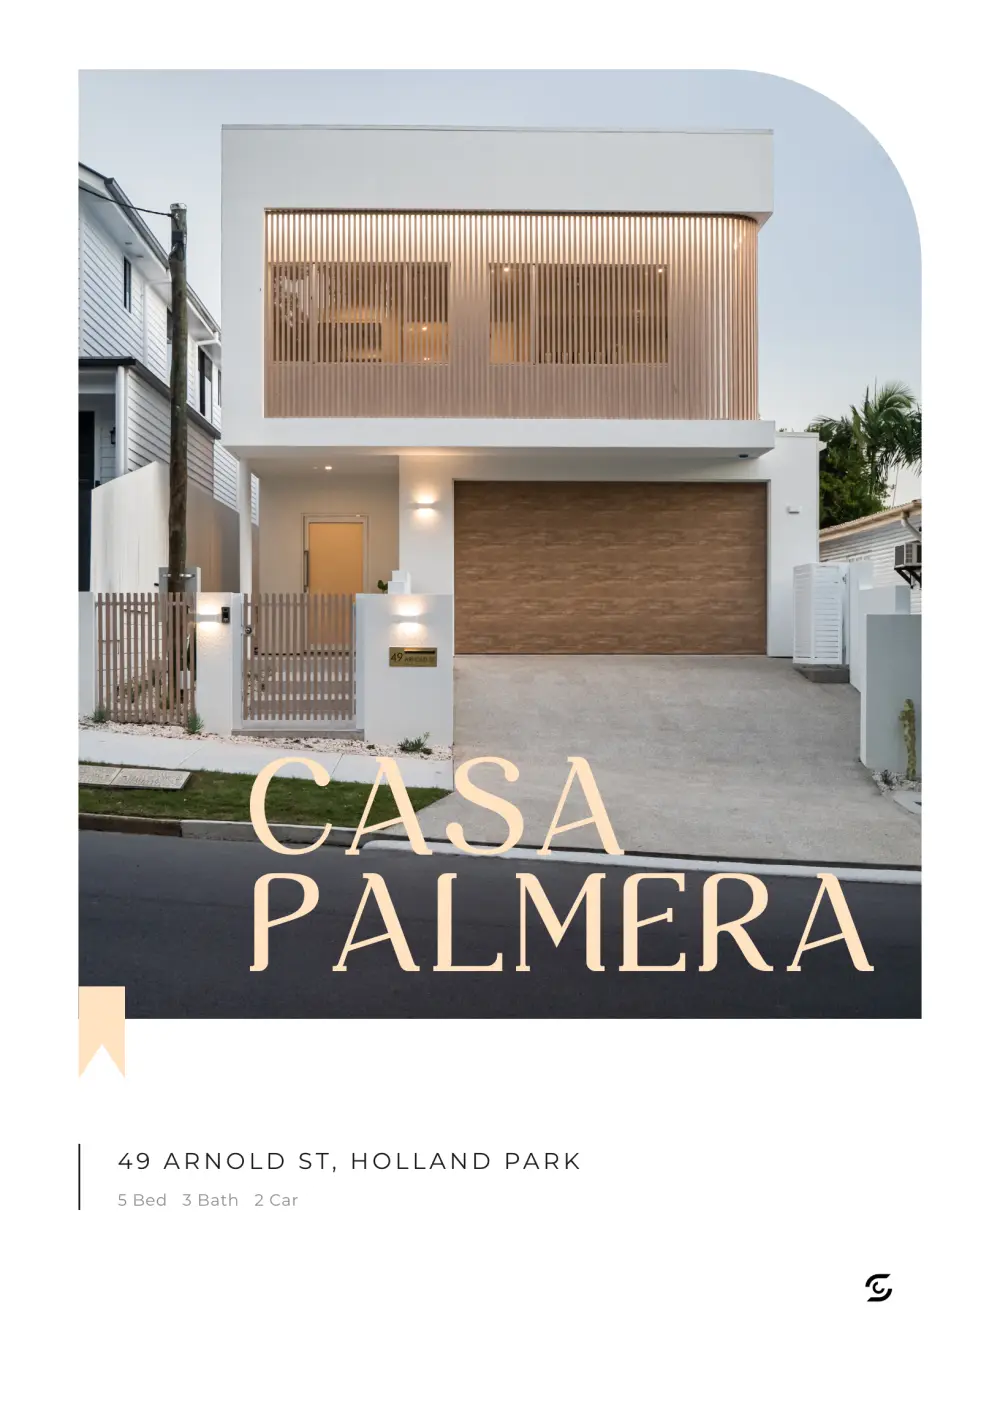
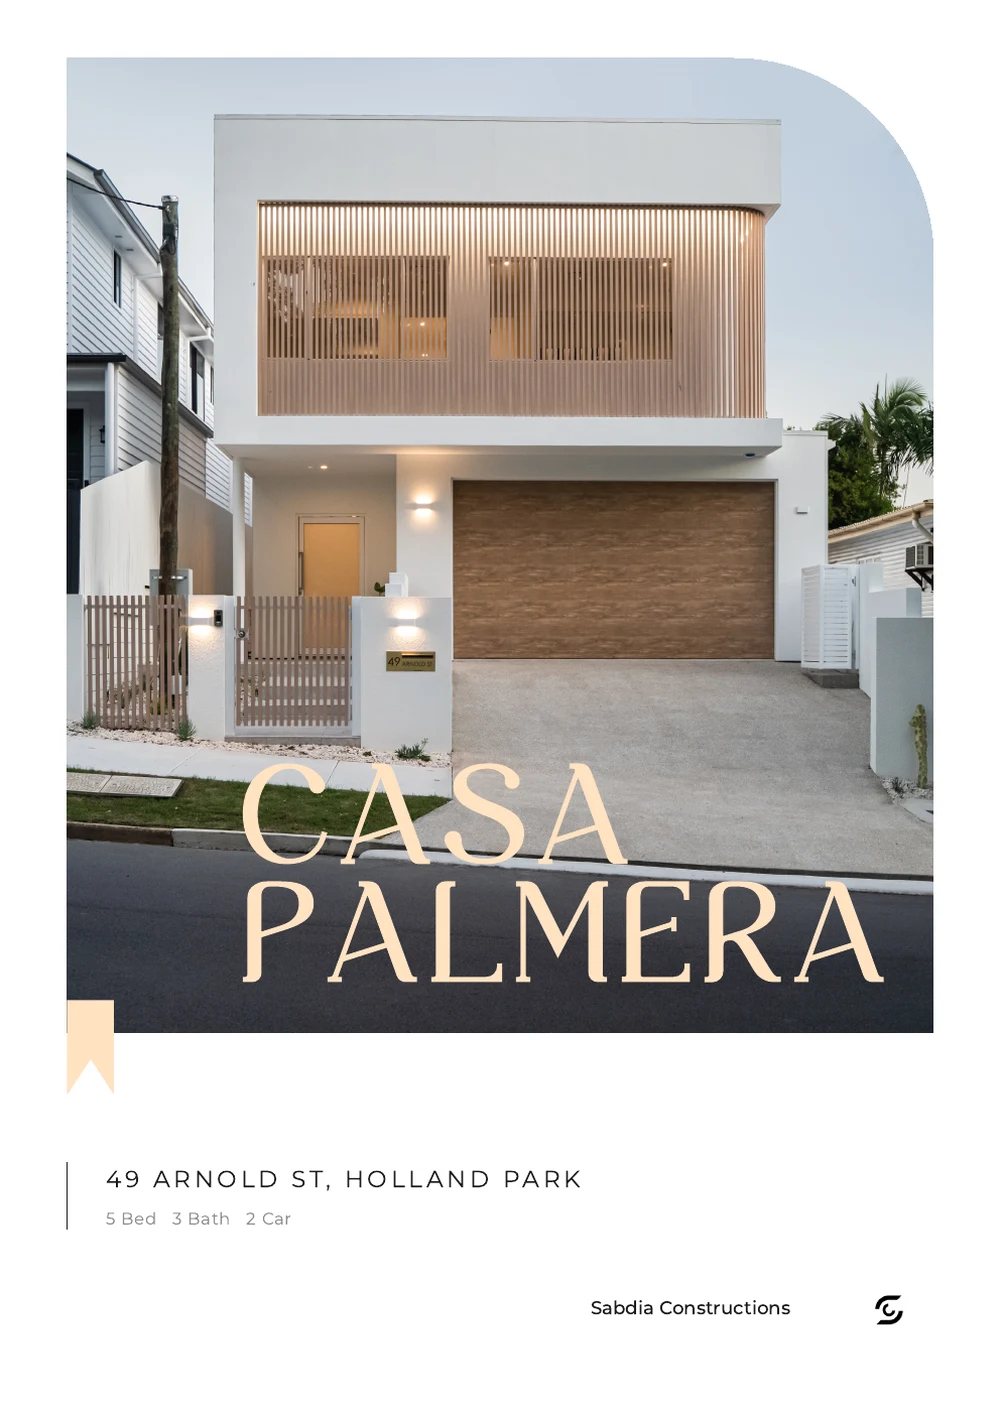
Add services page images and handoff notes

diff --git a/framer/services/HANDOFF.md b/framer/services/HANDOFF.md
@@ -1,0 +1,43 @@
+# Services page: image + decision handoff
+
+From the Claude Code session that owns the listing-pack pipeline (2026-11-19). The Framer/TSX session reads this and does the embed. Public repo: no prospect, outreach, price or key data in here.
+
+## Images now in `framer/services/img/`
+All real Miyabi/Sabdia/La Pineta/Six Marbella work. Nothing AI-generated, cropped, or edited to hide wording. Native aspect ratios kept; slots should use `object-fit: cover`.
+
+| Slot key | File | Size | What it is |
+|---|---|---|---|
+| `signboard` | `casa-palmera-signboard.webp` | 1000x1495 | Casa Palmera signboard, Palm Springs style (unchanged) |
+| `a4` | `casa-palmera-a4-cover.webp` | 1000x1404 | **Rebuilt.** A4 cover with "Sabdia Constructions" + logo restored, no status wording |
+| `post` | `casa-palmera-ig-post.webp` | 1080x1350 | IG post (unchanged) |
+| `story` | `casa-palmera-ig-story.webp` | 810x1440 | IG story (unchanged) |
+| `who-agencies` | `who-agencies.webp` | 1600x1067 (3:2) | La Pineta brochure + Instagram post on one surface: the "set" an agency gets |
+| `who-developers` | `who-developers.webp` | 1600x1067 (3:2) | Blanc (Sabdia) project brochure spread on dark marble |
+| `dev-identity` | `dev-identity.webp` | 1600x1067 (3:2) | Casa Palmera logo, gold foil on textured stock |
+| `dev-brochure` | `dev-brochure.webp` | 1600x1200 (4:3) | Six Marbella brochure, inside spread + cover |
+| `dev-signage` | `dev-signage.webp` | 1600x1067 (3:2) | Sabdia site hoarding on a street |
+| `dev-display-suite` | `dev-display-suite.webp` | 1600x1067 (3:2) | La Pineta display materials (magazine spreads) |
+| `dev-website` | `dev-website.webp` | 1600x1067 (3:2) | Casa Palmera website + phone + print mockup |
+| `dev-launch` | `dev-launch.webp` | 1600x1067 (3:2) | Casa Palmera launch brochure on a shelf |
+
+The `dev-stage` slots are `r-43` (4:3). Only `dev-brochure` is natively 4:3; the rest are 3:2, so `cover` trims a little off the sides. If that clips anything, switch those slots to `r-32` or `object-fit: contain`. `dev-renders` has no image: "Render direction" is the expander only, as specified.
+
+## Decisions (made at the owner's discretion)
+1. **"Built by Sabdia Constructions" on the A4 cover: RESTORED.** The other three images already carry the agency name, so the cover was the odd one out. Rebuilt from the Casa Palmera dry run with status blank and agent set. Visually checked: no "For Sale", "Just Listed" or "Contact Agent" anywhere on the cover. Pipeline change: `_tools/brochure_pack.py --no-status` (blanks the status line; default behaviour for real listings is unchanged).
+2. **Old "Services introduction" in Framer: KEEP HIDDEN.** Visible: No on all four breakpoints, so it has no live effect, and hiding is reversible. Delete later once the page is signed off.
+3. **FAQ headline "Questions agents ask.": KEEP.** It matches the agency-first plans section and the page voice. Developers are covered by the "Do you work with developers?" question.
+4. **Developer-build panels: leave as they are.** Six are image-only by design (the label is the copy). "Render direction" keeps its one sentence ("We brief and manage the render studio. You approve every shot."). Adding copy to the other five would make the accordion uneven.
+5. **Desktop 1462px live check: still the owner's.** Needs a wide display. Checklist: sticky pack stage switching, 24-hour rail animation, tabs and FAQ, all four Casa Palmera images show, no duplicate old sections.
+
+## What the listing pack delivers (for copy and captions)
+One listing in, within 24 hours out:
+- **Signboard**, 600 x 900 mm, print-ready PDF (CMYK) with bleed
+- **A4 brochure**, 4 pages: cover, the residence, features and gallery, back page with agent contact
+- **Instagram post**, 1080 x 1350
+- **Instagram story**, 1080 x 1920, plus an animated story video (about 14 seconds, MP4)
+- **Email (EDM)**, HTML, in the same style
+All five come in the agency's own template, in one of five styles (Hamptons, Prestige, Modern, Palm Springs and the agency's own). Printing runs on the agency's printer's timeline.
+
+## Still open on the Miyabi side (not needed for this page)
+- Palm Springs chip in the free pack form and its carousel card: planned for tomorrow.
+- Rules unchanged: never publish Framer, no prices, no em dashes, Miyabi Red only on the 雅 mark and CTA buttons, Poppins only.
